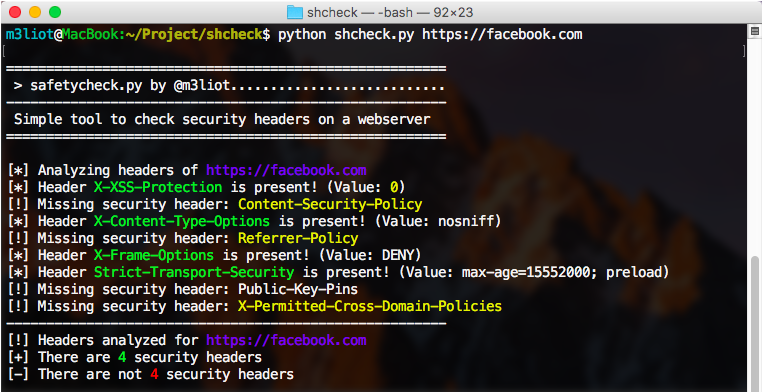
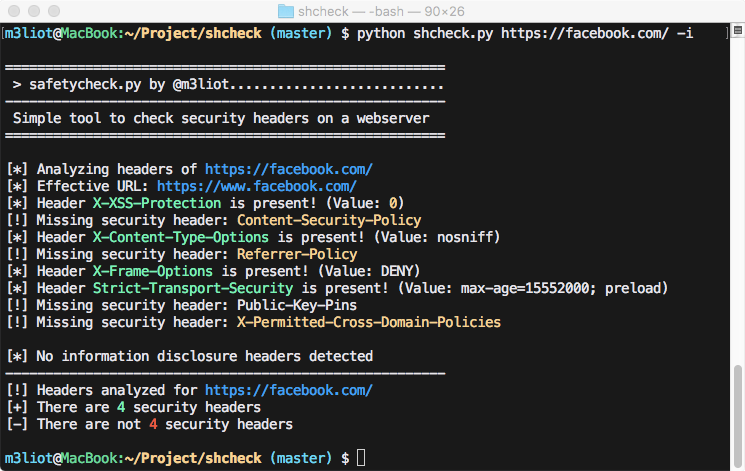
Updated README.md and Screenshot

diff --git a/README.md b/README.md
@@ -10,15 +10,16 @@ It just check headers and print a report about which are enabled and which not
 I think there is a lot to improve, and I will be grateful if somebody wants to help :)
 
 ```
-Usage: shcheck.py [options] <target>
+Usage: ./shcheck.py [options] <target>
 
 Options:
   -h, --help            show this help message and exit
   -p PORT, --port=PORT  Set a custom port to connect to
+  -d, --disable-ssl-check
+                        Disable SSL/TLS certificate validation
   -i, --information     Display present information headers
 ```
 ### Expected output:
 <p align="center">
 <img src="screenshot.png" alt="Output on Facebook" />
 </p>
-
